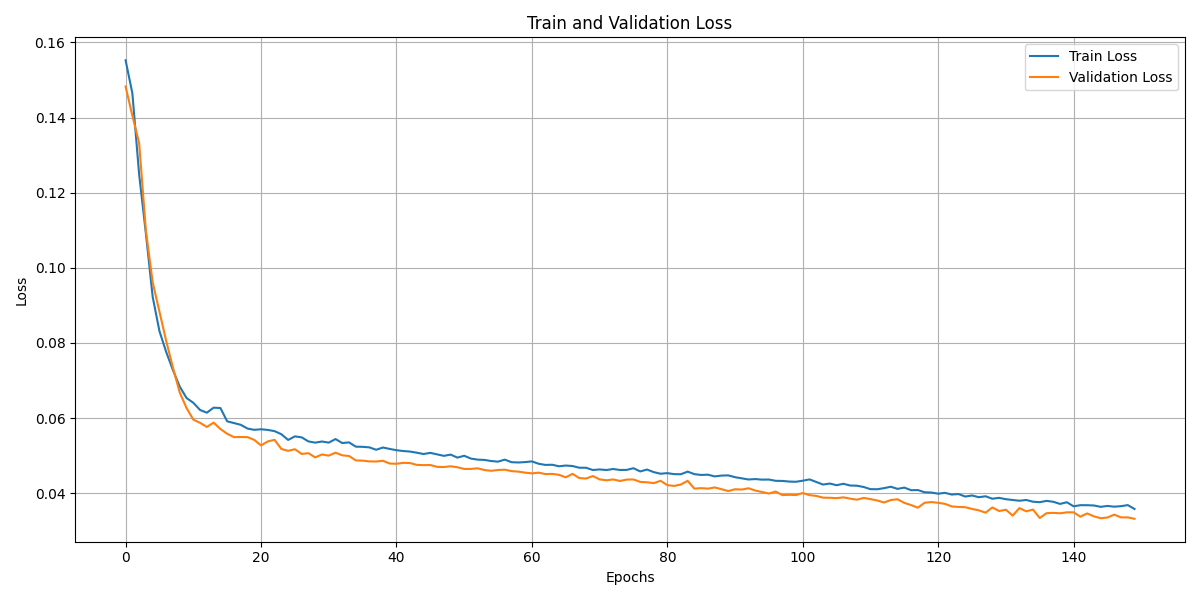
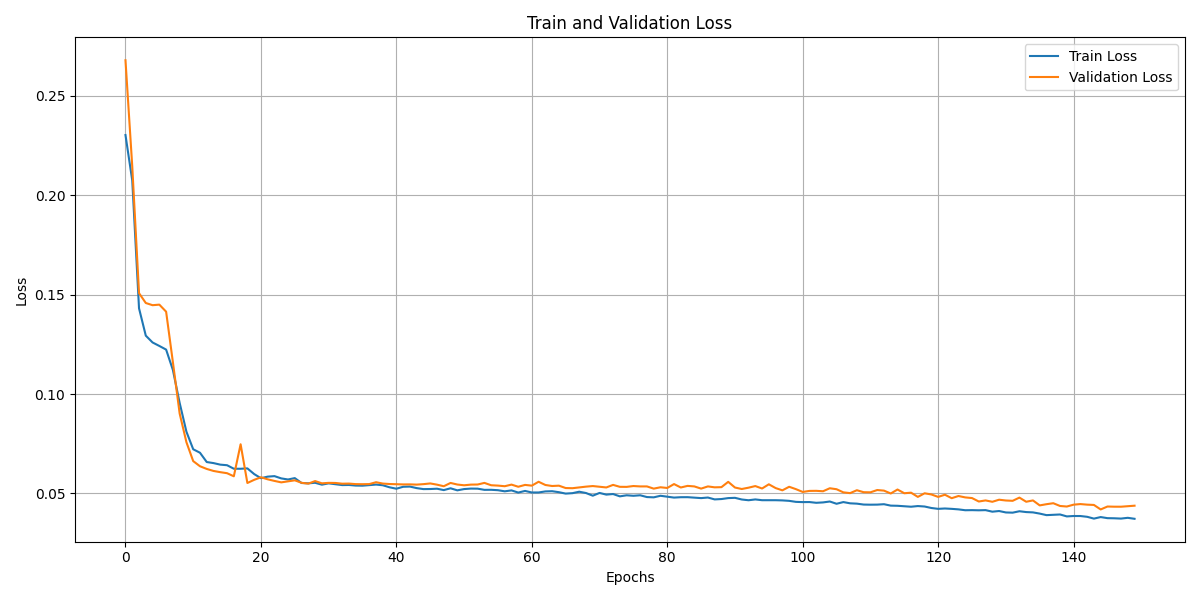
train with daily data

diff --git a/src/test.py b/src/test.py
@@ -17,22 +17,14 @@ warnings.filterwarnings("ignore")
 device = setting.device
 print(f"Using device: {device}")
 
-data_train = pd.read_csv(setting.train_path)
-data_val = pd.read_csv(setting.val_path)
 test_data = pd.read_csv(setting.test_path)
 scaler = setting.scaler
 
-train = data_train.copy()
-val = data_val.copy()
 test = test_data.copy()
-train['time'] = pd.to_datetime(train['time'], format='%Y-%m-%d')
-val['time'] = pd.to_datetime(val['time'], format='%Y-%m-%d')
-test['time'] = pd.to_datetime(test['time'], format='%Y-%m-%d')
-train = train.set_index('time')
-val = val.set_index('time')
+# test['time'] = pd.to_datetime(test['time'], format='%Y-%m-%d')
+test['time'] = pd.to_datetime(test['time'], format='ISO8601')
+
 test = test.set_index('time')
-train = train.sort_index(ascending=True)
-val = val.sort_index(ascending=True)
 test = test.sort_index(ascending=True)
 
 # Define hyperparameters
@@ -40,8 +32,8 @@ batch_size = setting.batch_size  # Number of samples per batch
 
 seq_length = setting.seq_length  # Length of the input sequence
 
-model = setting.LSTM_model.to(device)
-# model = setting.Transformer_model.to(device)
+# model = setting.LSTM_model.to(device)
+model = setting.Transformer_model.to(device)
 
 state_dict = torch.load('./src/model/'+setting.path, map_location=device)
 model.load_state_dict(state_dict)
@@ -77,7 +69,6 @@ predictions = scaler.inverse_transform(predictions)
 # y_test = np.concatenate((y_test, extra_feature), axis=1)
 y_test = scaler.inverse_transform(test[setting.seq_length:])
 # y_test = y_test[:, 0]
-print(predictions.shape, y_test.shape)
 
 data_df = pd.DataFrame(data={'Prediction Temp': predictions[:, 0], 'Actual Temp': y_test[:, 0], 'Prediction Rh': predictions[:, 1], 'Actual Rh': y_test[:, 1]}, index=test.index[-predictions.shape[0]:])
 # Plot the predictions and actual values
@@ -89,9 +80,10 @@ def plot_temp(data_df):
     plt.xlabel('Time Step')
     plt.ylabel('Temperature')
     plt.legend()
-    plt.savefig(setting.images_path + 'weather_lstm_temp.png')
-    # # plt.savefig(setting.images_path + 'weather_transformer_temp_rh.png')
+    # plt.savefig(setting.images_path + 'weather_lstm_temp.png')
+    plt.savefig(setting.images_path + 'weather_transformer_temp.png')
     plt.show()
+    
 def plot_rh(data_df):
     plt.figure(figsize=(12, 10))
     plt.plot(data_df['Prediction Rh'], label='Predicted', color='red')
@@ -100,8 +92,8 @@ def plot_rh(data_df):
     plt.xlabel('Time Step')
     plt.ylabel('Relative Humidity')
     plt.legend()
-    plt.savefig(setting.images_path + 'weather_lstm_rh.png')
-    # # plt.savefig(setting.images_path + 'weather_transformer_temp_rh.png')
+    # plt.savefig(setting.images_path + 'weather_lstm_rh.png')
+    plt.savefig(setting.images_path + 'weather_transformer_rh.png')
     plt.show()
 
 def evaluate_model(y_true, y_pred, name=""):

diff --git a/src/train.py b/src/train.py
@@ -35,8 +35,8 @@ seq_length = setting.seq_length  # Length of the input sequence
 
 num_epochs = setting.num_epochs  # Number of epochs to train the model
 
-model = setting.LSTM_model.to(device)
-# model = setting.Transformer_model.to(device)
+# model = setting.LSTM_model.to(device)
+model = setting.Transformer_model.to(device)
 
 
 # Define the model, loss function, and optimizer
@@ -88,7 +88,7 @@ def train_model(model, train_loader, val_loader, criterion, optimizer, num_epoch
 
         val_loss /= len(val_loader)
         val_history_loss.append(val_loss)
-        print(f'Epoch [{epoch + 1}/{num_epochs}], Loss: {loss.item():.4f}, Val Loss: {val_loss:.4f}')
+        print(f'Epoch [{epoch + 1}/{num_epochs}], Loss: {total_loss:.4f}, Val Loss: {val_loss:.4f}')
  
     # Save the model
     setting.save_model(model)
@@ -105,8 +105,8 @@ def train_model(model, train_loader, val_loader, criterion, optimizer, num_epoch
 
     if not os.path.exists(path_image):
         os.makedirs(path_image)
-    plt.savefig(path_image+'loss_lstm.png')
-    # plt.savefig(path_image+'loss_transformer_temp.png')
+    # plt.savefig(path_image+'loss_lstm.png')
+    plt.savefig(path_image+'loss_transformer.png')
     plt.show() 
     
 if __name__ == "__main__":

diff --git a/src/split_data.py b/src/split_data.py
@@ -36,7 +36,8 @@ def create_inout_sequences(data, seq_length):
     return X_tensor, y_tensor
 
 def create_inout_sequences_2feature(data, seq_length):
-    data['time'] = pd.to_datetime(data['time'], format='%Y-%m-%d')
+    # data['time'] = pd.to_datetime(data['time'], format='%Y-%m-%d')
+    data['time'] = pd.to_datetime(data['time'], format='ISO8601')
     columns = data.columns[1:]
     data = data[columns].copy()
     data = data.values
@@ -119,6 +120,6 @@ if __name__ == "__main__":
     df_hourly = df_hourly.set_index('time')
     df_hourly = df_hourly.sort_index(ascending=True)
     
-    hourly_data = df_hourly[['temperature_2m (°C)', 'soil_temperature_0_to_7cm (°C)', 'et0_fao_evapotranspiration (mm)', 'relative_humidity_2m (%)', 'soil_moisture_0_to_7cm (m³/m³)']].copy()
+    hourly_data = df_hourly[['temperature_2m (°C)', 'relative_humidity_2m (%)']].copy()
     split_data(hourly_data, path='./data/hourly/')
     joblib.dump(scaler, './data/scaler_hourly.save')
